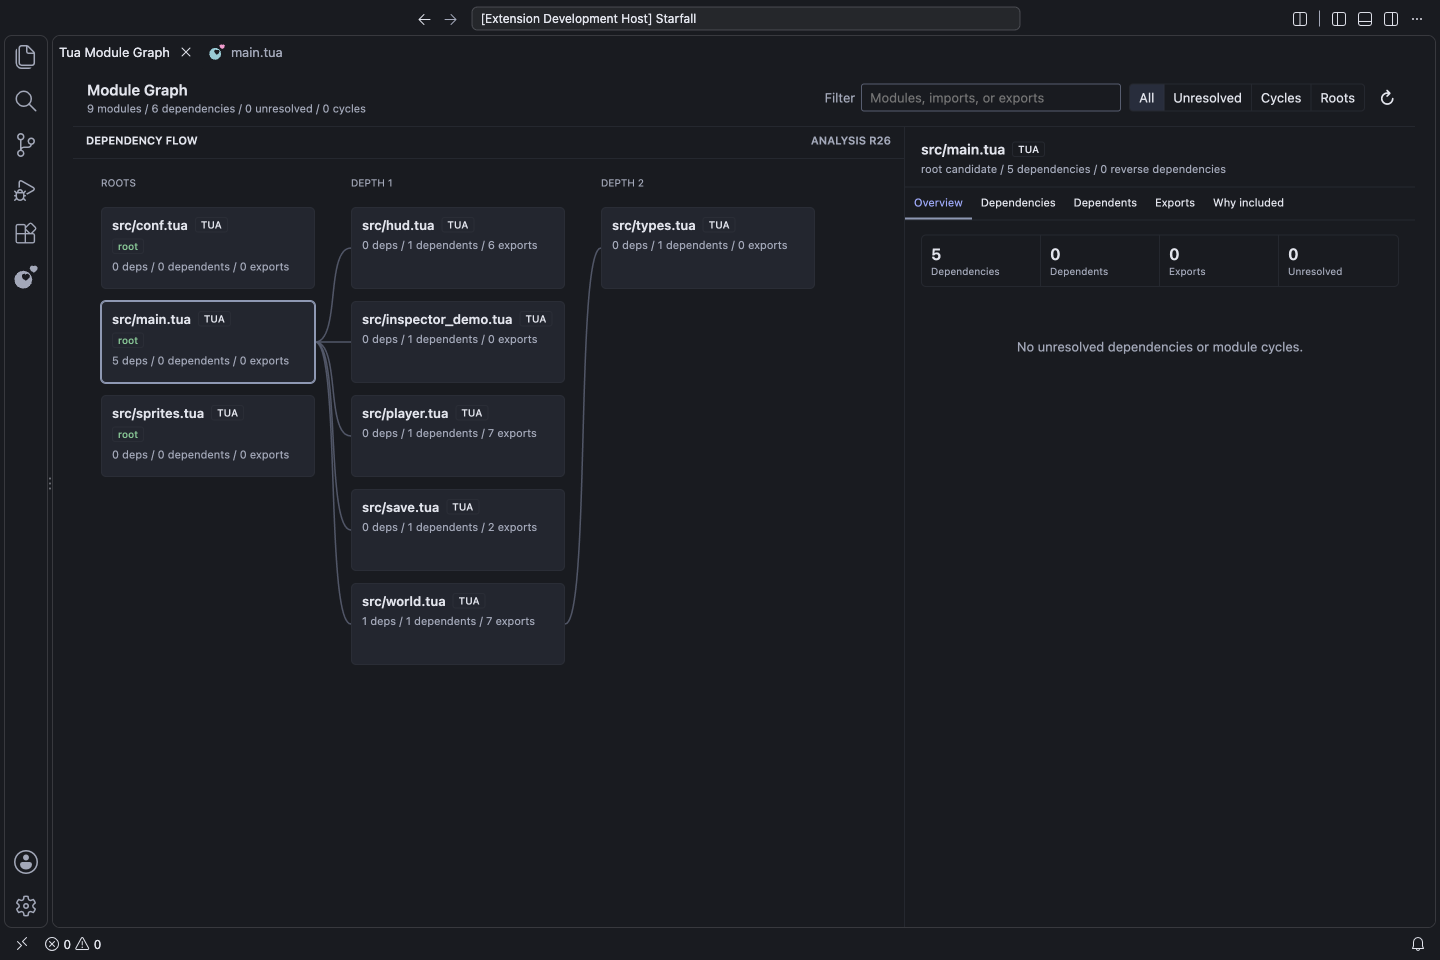
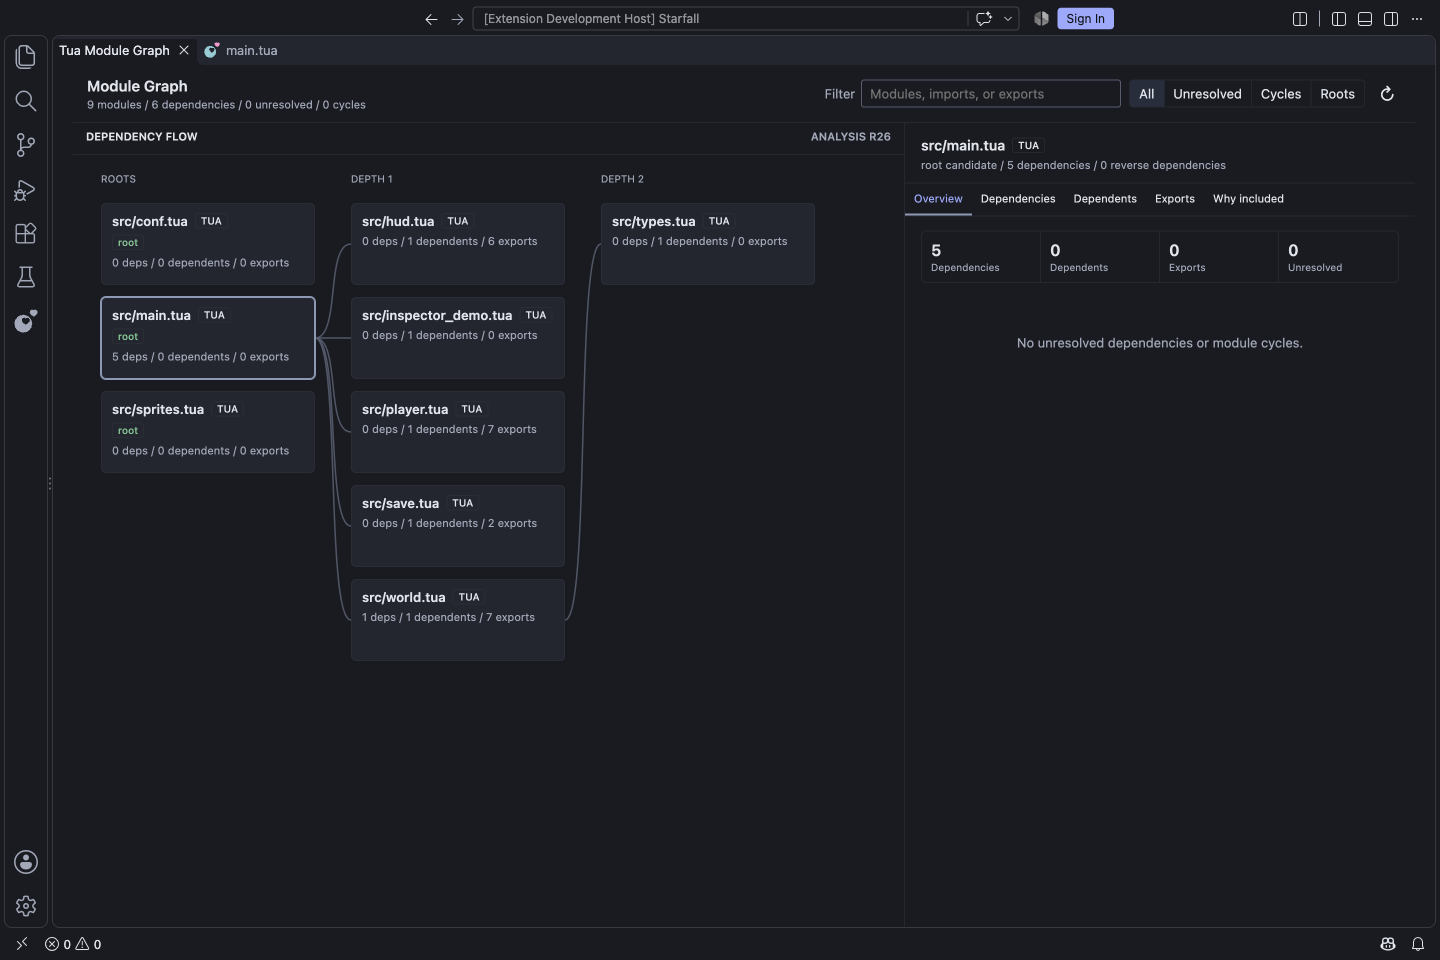
docs(vscode): refresh verified candidate editor gallery

diff --git a/editors/vscode/docs/screenshots/README.md b/editors/vscode/docs/screenshots/README.md
@@ -1,7 +1,7 @@
 # README screenshot captures
 
 These PNGs are unedited captures of the production-bundled Tua extension in an
-isolated VSCodium window, at 1440×960 with the optional Indigo Carbon HC theme.
+isolated VS Code window, at 1440×960 with the optional Indigo Carbon HC theme.
 The source example is `examples/starfall`; the script adds a demo store and a
 sprite declaration using `examples/features/src/assets/player.png`. The runtime
 inspector receives real snapshots from the temporary game, not fabricated data.
